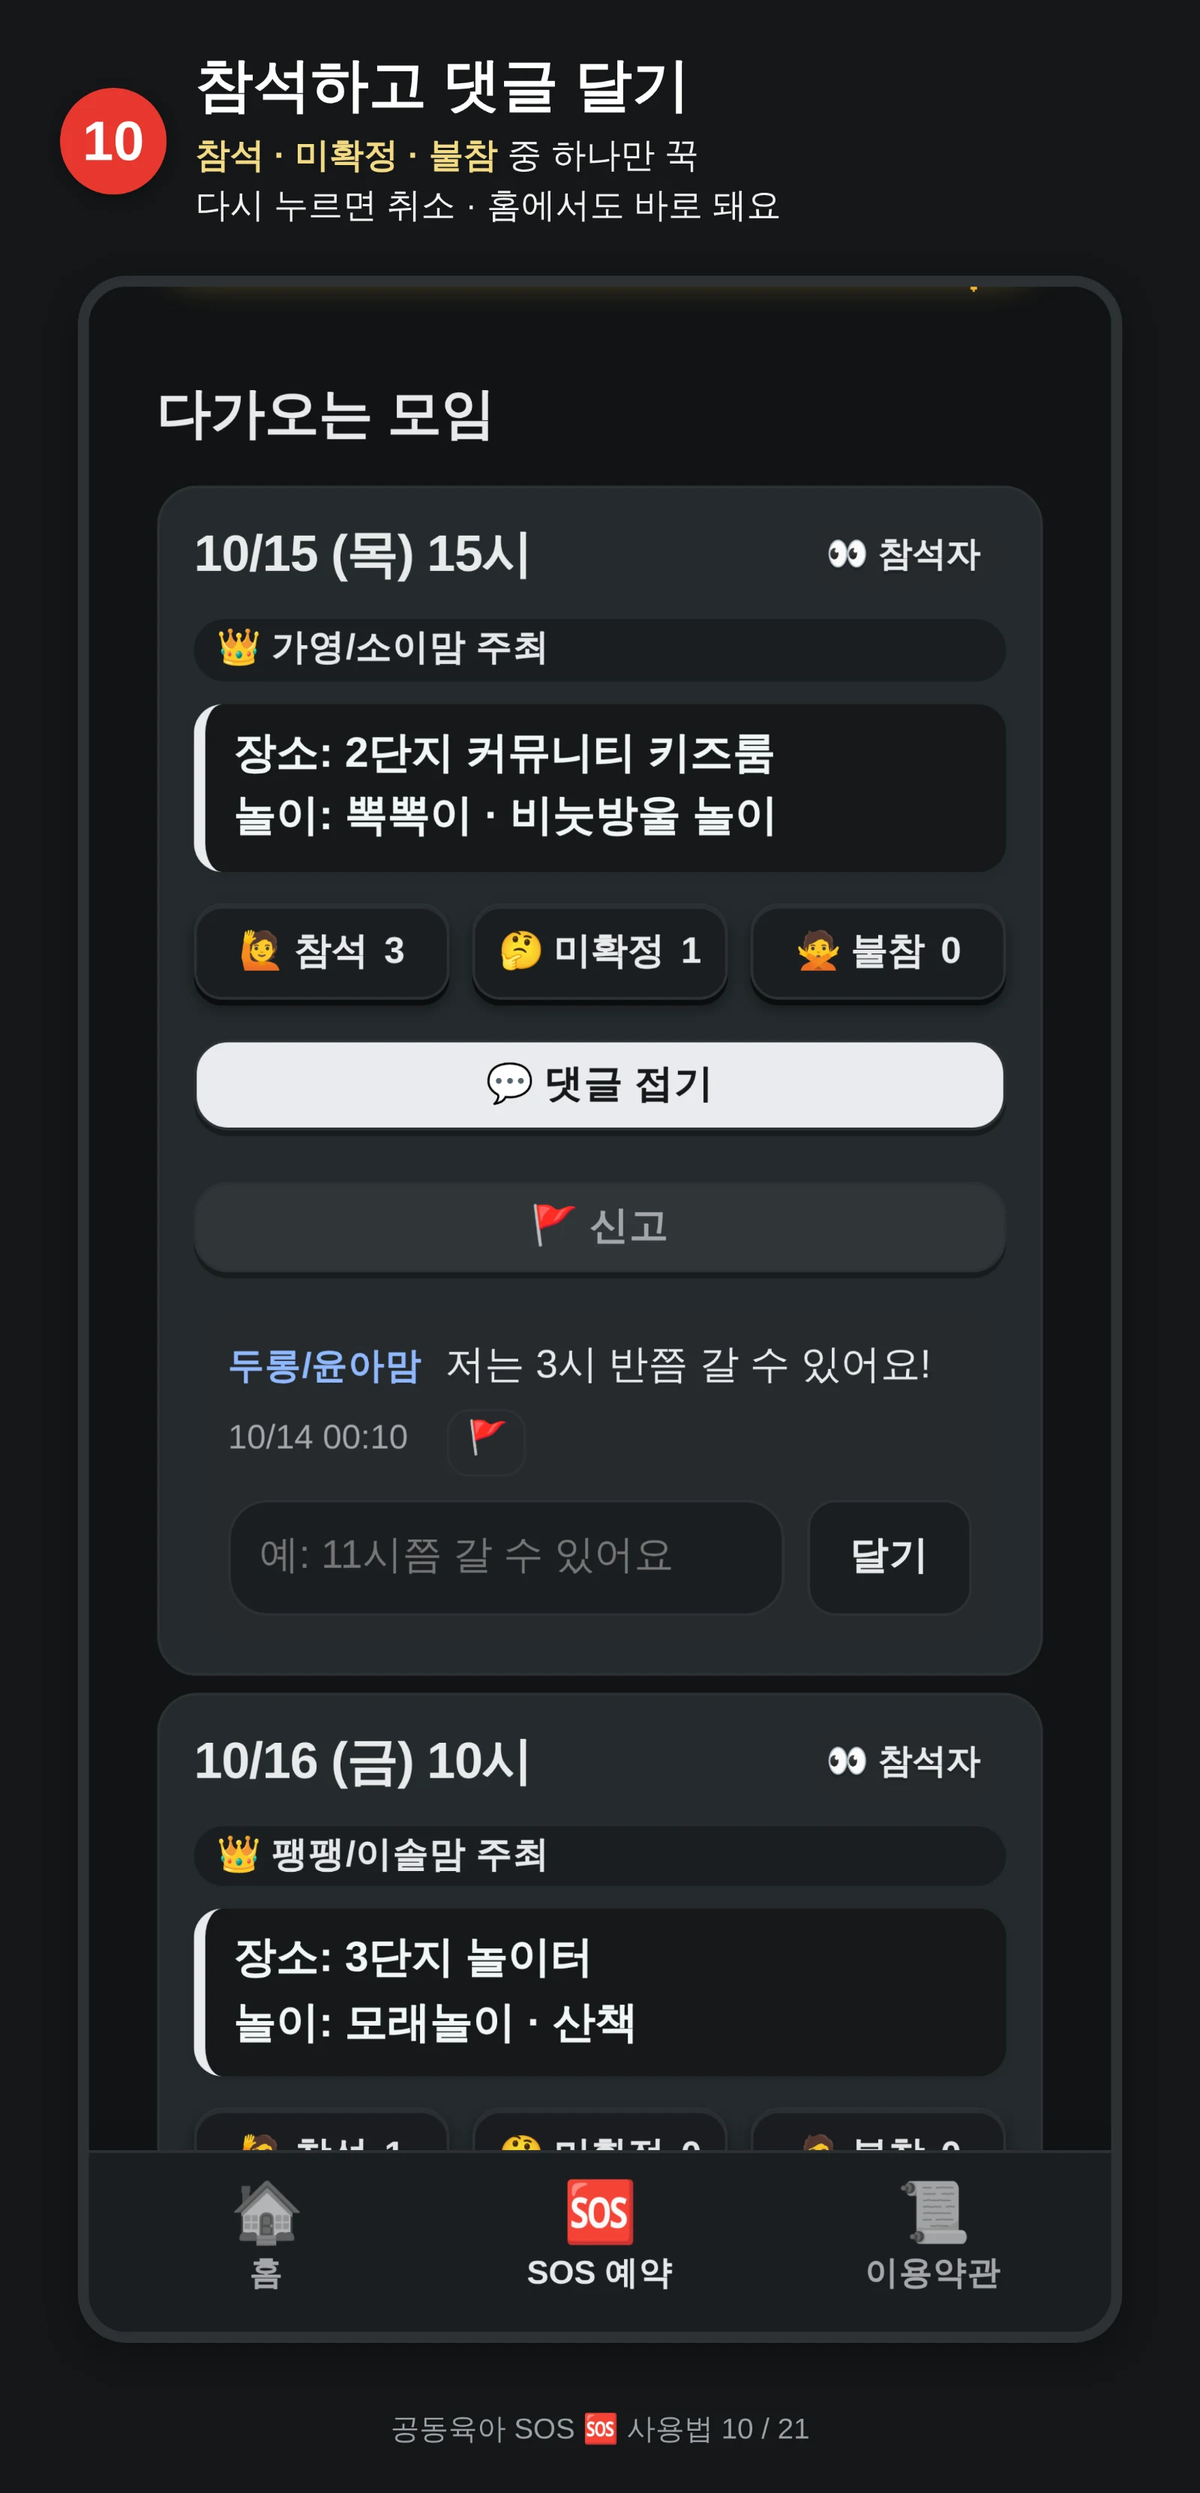
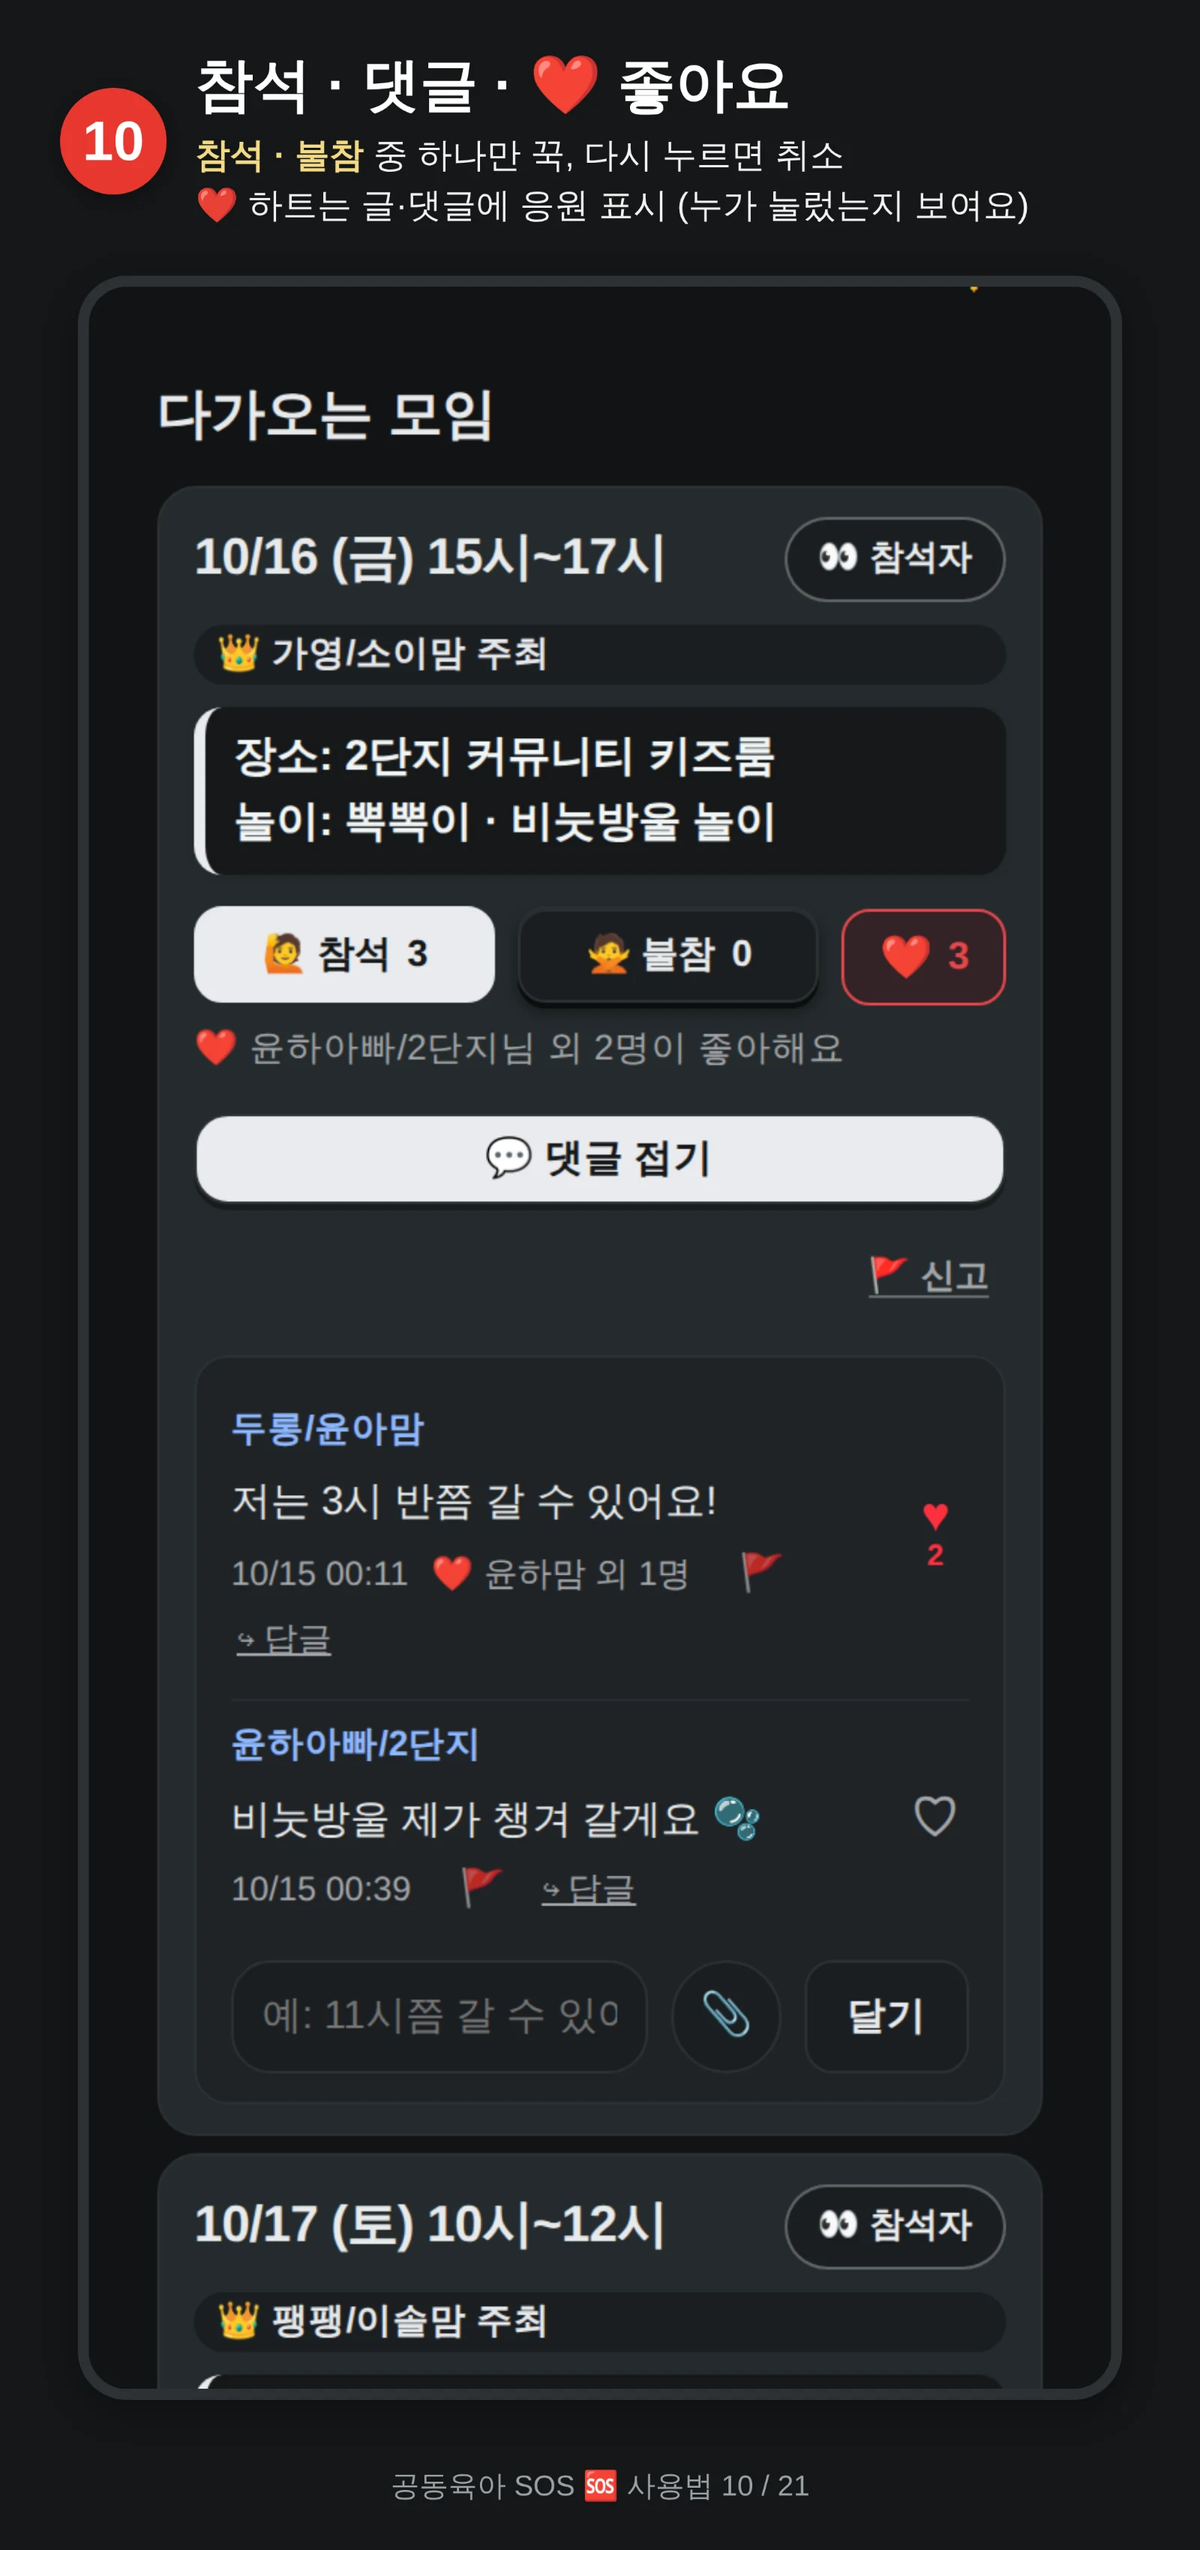
사용법 슬라이드 최신화 (10·11·19·20·21): ❤ 좋아요, 미확정 제거, 3일 보관, 댓글 좋아요 누른 사람 표시
- 댓글 시간 옆에 '❤ 하늘맘 외 1명' 작은 글자 (누르면 전체 이름 팝업)
- 모임·참석자·식단·익명게시판 화면 다시 찍음

Claude-Session: https://claude.ai/code/session_01EFizHcDdWswyQN5TmKwWHe

diff --git a/sos/safety.html b/sos/safety.html
@@ -8,14 +8,14 @@
 <link rel="preconnect" href="https://fonts.gstatic.com" crossorigin>
 <link rel="stylesheet" href="https://fonts.googleapis.com/css2?family=IBM+Plex+Sans+KR:wght@400;500;600;700&display=swap">
 <link rel="icon" href="assets/icon.svg" type="image/svg+xml">
-<link rel="manifest" href="manifest.webmanifest?v=202610150041">
+<link rel="manifest" href="manifest.webmanifest?v=202610150053">
 <meta name="theme-color" content="#2a9095">
 <link rel="apple-touch-icon" href="assets/icon-sos-180.png">
 <meta name="apple-mobile-web-app-capable" content="yes">
 <meta name="mobile-web-app-capable" content="yes">
 <meta name="apple-mobile-web-app-title" content="공동육아 SOS">
-<link rel="stylesheet" href="assets/common.css?v=202610150041">
-<script src="assets/gate.js?v=202610150041"></script>
+<link rel="stylesheet" href="assets/common.css?v=202610150053">
+<script src="assets/gate.js?v=202610150053"></script>
 </head>
 <body>
 <div class="wrap single">
@@ -150,8 +150,8 @@
 <script src="https://www.gstatic.com/firebasejs/10.12.0/firebase-auth-compat.js"></script>
 <script src="https://www.gstatic.com/firebasejs/10.12.0/firebase-firestore-compat.js"></script>
 <script src="https://www.gstatic.com/firebasejs/10.12.0/firebase-messaging-compat.js"></script>
-<script src="assets/common.js?v=202610150041"></script>
-<script src="assets/push.js?v=202610150041"></script>
+<script src="assets/common.js?v=202610150053"></script>
+<script src="assets/push.js?v=202610150053"></script>
 <script>
 document.getElementById('deleteMe').addEventListener('click', async e => {
   const owning = sosRooms().filter(r => r.owner).map(r => r.name);   // 내가 방장인 방이 있으면 먼저 알려 줘요

diff --git a/sos/index.html b/sos/index.html
@@ -9,14 +9,14 @@
 <link rel="preconnect" href="https://fonts.gstatic.com" crossorigin>
 <link rel="stylesheet" href="https://fonts.googleapis.com/css2?family=IBM+Plex+Sans+KR:wght@400;500;600;700&display=swap">
 <link rel="icon" href="assets/icon.svg" type="image/svg+xml">
-<link rel="manifest" href="manifest.webmanifest?v=202610150041">
+<link rel="manifest" href="manifest.webmanifest?v=202610150053">
 <meta name="theme-color" content="#2a9095">
 <link rel="apple-touch-icon" href="assets/icon-sos-180.png">
 <meta name="apple-mobile-web-app-capable" content="yes">
 <meta name="mobile-web-app-capable" content="yes">
 <meta name="apple-mobile-web-app-title" content="공동육아 SOS">
-<link rel="stylesheet" href="assets/common.css?v=202610150041">
-<script src="assets/gate.js?v=202610150041"></script>
+<link rel="stylesheet" href="assets/common.css?v=202610150053">
+<script src="assets/gate.js?v=202610150053"></script>
 </head>
 <body>
 <div class="wrap single">
@@ -85,8 +85,8 @@
 <script src="https://www.gstatic.com/firebasejs/10.12.0/firebase-auth-compat.js"></script>
 <script src="https://www.gstatic.com/firebasejs/10.12.0/firebase-firestore-compat.js"></script>
 <script src="https://www.gstatic.com/firebasejs/10.12.0/firebase-messaging-compat.js"></script>
-<script src="assets/common.js?v=202610150041"></script>
-<script src="assets/push.js?v=202610150041"></script>
+<script src="assets/common.js?v=202610150053"></script>
+<script src="assets/push.js?v=202610150053"></script>
 <script>
 sosSummary();
 // 🦸 구원자: 처음엔 오른쪽 위에서 흔들흔들 → 조금 뒤 테두리를 한 바퀴 날고 다시 제자리 (그 뒤로도 가끔)

diff --git a/sos/idea.html b/sos/idea.html
@@ -8,14 +8,14 @@
 <link rel="preconnect" href="https://fonts.gstatic.com" crossorigin>
 <link rel="stylesheet" href="https://fonts.googleapis.com/css2?family=IBM+Plex+Sans+KR:wght@400;500;600;700&display=swap">
 <link rel="icon" href="assets/icon.svg" type="image/svg+xml">
-<link rel="manifest" href="manifest.webmanifest?v=202610150041">
+<link rel="manifest" href="manifest.webmanifest?v=202610150053">
 <meta name="theme-color" content="#2a9095">
 <link rel="apple-touch-icon" href="assets/icon-sos-180.png">
 <meta name="apple-mobile-web-app-capable" content="yes">
 <meta name="mobile-web-app-capable" content="yes">
 <meta name="apple-mobile-web-app-title" content="공동육아 SOS">
-<link rel="stylesheet" href="assets/common.css?v=202610150041">
-<script src="assets/gate.js?v=202610150041"></script>
+<link rel="stylesheet" href="assets/common.css?v=202610150053">
+<script src="assets/gate.js?v=202610150053"></script>
 </head>
 <body>
 <div class="wrap single">
@@ -43,8 +43,8 @@
 <script src="https://www.gstatic.com/firebasejs/10.12.0/firebase-auth-compat.js"></script>
 <script src="https://www.gstatic.com/firebasejs/10.12.0/firebase-firestore-compat.js"></script>
 <script src="https://www.gstatic.com/firebasejs/10.12.0/firebase-messaging-compat.js"></script>
-<script src="assets/common.js?v=202610150041"></script>
-<script src="assets/push.js?v=202610150041"></script>
-<script src="assets/idea.js?v=202610150041"></script>
+<script src="assets/common.js?v=202610150053"></script>
+<script src="assets/push.js?v=202610150053"></script>
+<script src="assets/idea.js?v=202610150053"></script>
 </body>
 </html>

diff --git a/sos/meal.html b/sos/meal.html
@@ -8,14 +8,14 @@
 <link rel="preconnect" href="https://fonts.gstatic.com" crossorigin>
 <link rel="stylesheet" href="https://fonts.googleapis.com/css2?family=IBM+Plex+Sans+KR:wght@400;500;600;700&display=swap">
 <link rel="icon" href="assets/icon.svg" type="image/svg+xml">
-<link rel="manifest" href="manifest.webmanifest?v=202610150041">
+<link rel="manifest" href="manifest.webmanifest?v=202610150053">
 <meta name="theme-color" content="#2a9095">
 <link rel="apple-touch-icon" href="assets/icon-sos-180.png">
 <meta name="apple-mobile-web-app-capable" content="yes">
 <meta name="mobile-web-app-capable" content="yes">
 <meta name="apple-mobile-web-app-title" content="공동육아 SOS">
-<link rel="stylesheet" href="assets/common.css?v=202610150041">
-<script src="assets/gate.js?v=202610150041"></script>
+<link rel="stylesheet" href="assets/common.css?v=202610150053">
+<script src="assets/gate.js?v=202610150053"></script>
 </head>
 <body>
 <div class="wrap single">
@@ -44,8 +44,8 @@
 <script src="https://www.gstatic.com/firebasejs/10.12.0/firebase-auth-compat.js"></script>
 <script src="https://www.gstatic.com/firebasejs/10.12.0/firebase-firestore-compat.js"></script>
 <script src="https://www.gstatic.com/firebasejs/10.12.0/firebase-messaging-compat.js"></script>
-<script src="assets/common.js?v=202610150041"></script>
-<script src="assets/push.js?v=202610150041"></script>
-<script src="assets/meal.js?v=202610150041"></script>
+<script src="assets/common.js?v=202610150053"></script>
+<script src="assets/push.js?v=202610150053"></script>
+<script src="assets/meal.js?v=202610150053"></script>
 </body>
 </html>

diff --git a/sos/meet.html b/sos/meet.html
@@ -8,14 +8,14 @@
 <link rel="preconnect" href="https://fonts.gstatic.com" crossorigin>
 <link rel="stylesheet" href="https://fonts.googleapis.com/css2?family=IBM+Plex+Sans+KR:wght@400;500;600;700&display=swap">
 <link rel="icon" href="assets/icon.svg" type="image/svg+xml">
-<link rel="manifest" href="manifest.webmanifest?v=202610150041">
+<link rel="manifest" href="manifest.webmanifest?v=202610150053">
 <meta name="theme-color" content="#2a9095">
 <link rel="apple-touch-icon" href="assets/icon-sos-180.png">
 <meta name="apple-mobile-web-app-capable" content="yes">
 <meta name="mobile-web-app-capable" content="yes">
 <meta name="apple-mobile-web-app-title" content="공동육아 SOS">
-<link rel="stylesheet" href="assets/common.css?v=202610150041">
-<script src="assets/gate.js?v=202610150041"></script>
+<link rel="stylesheet" href="assets/common.css?v=202610150053">
+<script src="assets/gate.js?v=202610150053"></script>
 </head>
 <body>
 <div class="wrap single">
@@ -60,8 +60,8 @@
 <script src="https://www.gstatic.com/firebasejs/10.12.0/firebase-auth-compat.js"></script>
 <script src="https://www.gstatic.com/firebasejs/10.12.0/firebase-firestore-compat.js"></script>
 <script src="https://www.gstatic.com/firebasejs/10.12.0/firebase-messaging-compat.js"></script>
-<script src="assets/common.js?v=202610150041"></script>
-<script src="assets/push.js?v=202610150041"></script>
-<script src="assets/meet.js?v=202610150041"></script>
+<script src="assets/common.js?v=202610150053"></script>
+<script src="assets/push.js?v=202610150053"></script>
+<script src="assets/meet.js?v=202610150053"></script>
 </body>
 </html>

diff --git a/sos/play.html b/sos/play.html
@@ -8,14 +8,14 @@
 <link rel="preconnect" href="https://fonts.gstatic.com" crossorigin>
 <link rel="stylesheet" href="https://fonts.googleapis.com/css2?family=IBM+Plex+Sans+KR:wght@400;500;600;700&display=swap">
 <link rel="icon" href="assets/icon.svg" type="image/svg+xml">
-<link rel="manifest" href="manifest.webmanifest?v=202610150041">
+<link rel="manifest" href="manifest.webmanifest?v=202610150053">
 <meta name="theme-color" content="#2a9095">
 <link rel="apple-touch-icon" href="assets/icon-sos-180.png">
 <meta name="apple-mobile-web-app-capable" content="yes">
 <meta name="mobile-web-app-capable" content="yes">
 <meta name="apple-mobile-web-app-title" content="공동육아 SOS">
-<link rel="stylesheet" href="assets/common.css?v=202610150041">
-<script src="assets/gate.js?v=202610150041"></script>
+<link rel="stylesheet" href="assets/common.css?v=202610150053">
+<script src="assets/gate.js?v=202610150053"></script>
 </head>
 <body>
 <div class="wrap">
@@ -135,8 +135,8 @@
 <script src="https://www.gstatic.com/firebasejs/10.12.0/firebase-app-compat.js"></script>
 <script src="https://www.gstatic.com/firebasejs/10.12.0/firebase-auth-compat.js"></script>
 <script src="https://www.gstatic.com/firebasejs/10.12.0/firebase-firestore-compat.js"></script>
-<script src="plays.js?v=202610150041"></script>
-<script src="assets/common.js?v=202610150041"></script>
-<script src="assets/play.js?v=202610150041"></script>
+<script src="plays.js?v=202610150053"></script>
+<script src="assets/common.js?v=202610150053"></script>
+<script src="assets/play.js?v=202610150053"></script>
 </body>
 </html>

diff --git a/sos/terms.html b/sos/terms.html
@@ -8,14 +8,14 @@
 <link rel="preconnect" href="https://fonts.gstatic.com" crossorigin>
 <link rel="stylesheet" href="https://fonts.googleapis.com/css2?family=IBM+Plex+Sans+KR:wght@400;500;600;700&display=swap">
 <link rel="icon" href="assets/icon.svg" type="image/svg+xml">
-<link rel="manifest" href="manifest.webmanifest?v=202610150041">
+<link rel="manifest" href="manifest.webmanifest?v=202610150053">
 <meta name="theme-color" content="#2a9095">
 <link rel="apple-touch-icon" href="assets/icon-sos-180.png">
 <meta name="apple-mobile-web-app-capable" content="yes">
 <meta name="mobile-web-app-capable" content="yes">
 <meta name="apple-mobile-web-app-title" content="공동육아 SOS">
-<link rel="stylesheet" href="assets/common.css?v=202610150041">
-<script src="assets/gate.js?v=202610150041"></script>
+<link rel="stylesheet" href="assets/common.css?v=202610150053">
+<script src="assets/gate.js?v=202610150053"></script>
 </head>
 <body>
 <div class="wrap single">
@@ -119,6 +119,6 @@
 <script src="https://www.gstatic.com/firebasejs/10.12.0/firebase-app-compat.js"></script>
 <script src="https://www.gstatic.com/firebasejs/10.12.0/firebase-auth-compat.js"></script>
 <script src="https://www.gstatic.com/firebasejs/10.12.0/firebase-firestore-compat.js"></script>
-<script src="assets/common.js?v=202610150041"></script>
+<script src="assets/common.js?v=202610150053"></script>
 </body>
 </html>

diff --git a/sos/assets/meal.js b/sos/assets/meal.js
@@ -151,7 +151,8 @@ function openPhoto(id){
       const t = document.createElement('span'); t.textContent = c.text;
       const w = document.createElement('small'); w.textContent = fmtHm(c.createdAt);
       const rb = document.createElement('button'); rb.type = 'button'; rb.className = 'reply-btn'; rb.dataset.mcReply = c.id; rb.textContent = '↪ 답글';
-      li.append(n, t, w, likeBtn(c, ME.uid, mealCmts(d.id).doc(c.id), {val: ME.nick, cls: 'mini'}), rb);   // ❤ 댓글 좋아요 (v18)
+      li.append(n, t, w, likeBtn(c, ME.uid, mealCmts(d.id).doc(c.id), {val: ME.nick, cls: 'mini'}));   // ❤ 댓글 좋아요 (v18)
+      const lw = likeWhoMini(c); if(lw) li.appendChild(lw); li.appendChild(rb);   // 누가 눌렀는지
       if(typeof attachView === 'function'){ const av = attachView(c); if(av) li.appendChild(av); }
       if(c.uid === ME.uid || ME.owner){ const x = document.createElement('span'); x.className = 'comment-act';
         x.innerHTML = `<button type="button" data-mc-del="${c.id}">${c.uid === ME.uid ? '삭제' : '삭제(방장)'}</button>`; li.appendChild(x); }

diff --git a/sos/assets/common.js b/sos/assets/common.js
@@ -262,6 +262,14 @@ function likeWho(d){
   p.addEventListener('click', () => sosInfo({icon: '❤', title: `좋아요 ${names.length}명`, body: `<div class="who-list">${names.map(n => `<span class="who-chip">${esc(n)}</span>`).join('')}</div>`}));
   return p;
 }
+// 댓글 밑 작은 글자: '❤ 가영맘 외 1명' — 누르면 전체 이름 팝업 (이름이 있을 때만)
+function likeWhoMini(d){
+  const names = likeNames(d); if(!names.length) return null;
+  const p = document.createElement('button'); p.type = 'button'; p.className = 'like-who mini';
+  p.textContent = `❤ ${names[0]}${names.length > 1 ? ` 외 ${names.length - 1}명` : ''}`;
+  p.addEventListener('click', () => sosInfo({icon: '❤', title: `좋아요 ${names.length}명`, body: `<div class="who-list">${names.map(n => `<span class="who-chip">${esc(n)}</span>`).join('')}</div>`}));
+  return p;
+}
 function likeBtn(d, key, ref, opts = {}){
   const val = opts.val || true;
   const b = document.createElement('button'); b.type = 'button'; b.className = 'like' + (opts.cls ? ' ' + opts.cls : '');

diff --git a/sos/assets/meet.js b/sos/assets/meet.js
@@ -145,6 +145,7 @@ function meetCard(o, past){
       const cw = document.createElement('small'); cw.textContent = fmtTime(c.createdAt) + (c.editedAt ? ' · 수정됨' : '');
       ci.append(ct, cw);
       ci.appendChild(likeBtn(c, ME.uid, meet.col.doc(o.id).collection('comments').doc(c.id), {val: ME.nick, cls: 'mini'}));   // ❤ 댓글 좋아요 (v18)
+      const lw = likeWhoMini(c); if(lw) ci.appendChild(lw);   // 누가 눌렀는지
       if(typeof attachView === 'function'){ const av = attachView(c); if(av) ci.appendChild(av); }
       if((c.uid && c.uid !== ME.uid) || ME.owner){   // 남의 댓글 신고 · 방장 지우기
         const m = document.createElement('span'); m.className = 'comment-mod';

diff --git a/sos/admin.html b/sos/admin.html
@@ -12,8 +12,8 @@
 <meta name="apple-mobile-web-app-capable" content="yes">
 <meta name="mobile-web-app-capable" content="yes">
 <meta name="apple-mobile-web-app-title" content="SOS 운영">
-<link rel="stylesheet" href="assets/common.css?v=202610150041">
-<script src="assets/gate.js?v=202610150041"></script>
+<link rel="stylesheet" href="assets/common.css?v=202610150053">
+<script src="assets/gate.js?v=202610150053"></script>
 <style>
 /* 운영자 화면: 숫자 타일 → 주간 막대 → 방 표. 단일 색(teal) 막대, 상태색은 경고에만 */
 body{padding-block:20px 60px}

diff --git a/sos/guide.html b/sos/guide.html
@@ -5,7 +5,7 @@
 <meta name="viewport" content="width=device-width,initial-scale=1,viewport-fit=cover">
 <title>사용법 · 공동육아 SOS</title>
 <link rel="icon" href="assets/icon.svg" type="image/svg+xml">
-<link rel="manifest" href="manifest.webmanifest?v=202610150041">
+<link rel="manifest" href="manifest.webmanifest?v=202610150053">
 <meta name="theme-color" content="#2a9095">
 <link rel="apple-touch-icon" href="assets/icon-sos-180.png">
 <style>
